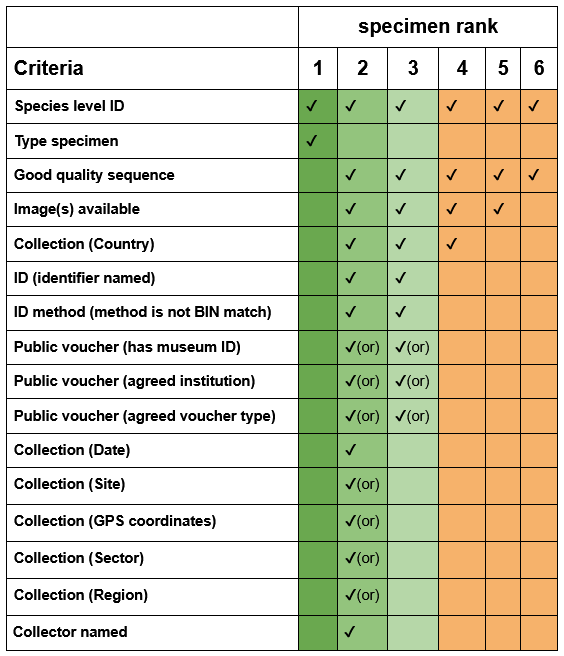
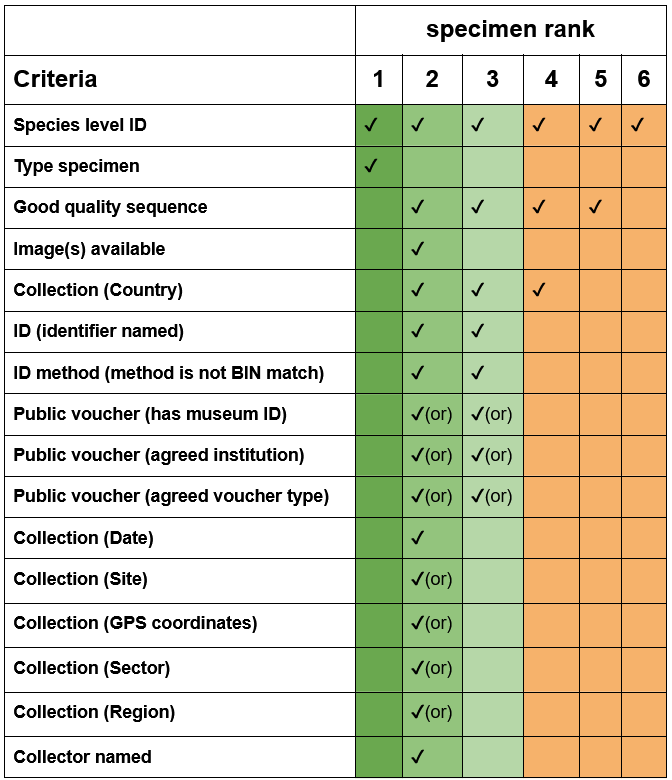
updating image requirement and svg output
- added svg trees as pdfs truncated when long
- updated image impact on rank as most without image
- removed "None" from country stats

Changed region(s): [[0.0, 0.0, 0.9947, 1.0]]

diff --git a/workflow/scripts/phylo_pipeline.py b/workflow/scripts/phylo_pipeline.py
@@ -1241,16 +1241,19 @@ class PhylogeneticPipeline:
         family_dir = self.output_dir / family_name
         family_dir.mkdir(exist_ok=True)
         
-        return {
+        paths = {
             'family_dir': family_dir,
             'fasta_file': family_dir / f"{family_name}.fasta",
             'alignment_file': family_dir / f"{family_name}_aligned.fasta",
             'tree_file': family_dir / f"{family_name}.treefile",
             'pdf_file': family_dir / f"{family_name}_tree.pdf",
+            'svg_file': family_dir / f"{family_name}_tree.svg",
             'curation_pdf_file': family_dir / f"{family_name}_curation_checklist.pdf",
             'metadata_file': family_dir / f"tree_metadata.json",
             'curation_data_file': family_dir / f"curation_data.json"
         }
+        
+        return paths
     def create_fasta_file(self, representatives_df, outgroups_df, fasta_path):
         """
         Create a FASTA file for a family with ingroup and outgroup sequences.
@@ -1321,7 +1324,7 @@ class PhylogeneticPipeline:
     
     def generate_bin_conflict_pdf(self, tree_file, pdf_file, family_name, metadata_file):
         """
-        Generate PDF with BAGS grade visualization and Grade C monophyly analysis.
+        Generate PDF and SVG with BAGS grade visualization and Grade C monophyly analysis.
         
         Args:
             tree_file (Path): Path to tree file
@@ -1508,6 +1511,10 @@ class PhylogeneticPipeline:
             # Custom node styling function
             def layout(node):
                 if node.is_leaf():
+                    # Check if faces have already been added to prevent SVG duplication
+                    if hasattr(node, '_faces_added'):
+                        return
+                    
                     # Add colored circle based on BAGS grade (including monophyly)
                     circle = self.CircleFace(radius=4, color=node.bgcolor, style="sphere")
                     node.add_face(circle, column=0, position="branch-right")
@@ -1550,11 +1557,19 @@ class PhylogeneticPipeline:
                         
                         grade_face = self.TextFace(f" {grade_text}", fsize=8, fgcolor="black")
                         node.add_face(grade_face, column=3, position="branch-right")
+                    
+                    # Mark faces as added to prevent duplication
+                    node._faces_added = True
             
             ts.layout_fn = layout
             
             # Generate PDF
             tree.render(str(pdf_file), tree_style=ts, dpi=300)
+            
+            # Generate static SVG
+            svg_file = pdf_file.with_suffix('.svg')
+            tree.render(str(svg_file), tree_style=ts)
+            
             return True
             
         except Exception as e:
@@ -1628,7 +1643,7 @@ class PhylogeneticPipeline:
         paths = self.create_family_output_dir(family_name)
         
         # Skip if already processed (optional optimization)
-        if (paths['pdf_file'].exists() if self.generate_pdfs else paths['tree_file'].exists()):
+        if (paths['pdf_file'].exists() and paths['svg_file'].exists()) if self.generate_pdfs else paths['tree_file'].exists():
             print(f"   Already processed, skipping {family_name}")
             return None
         
@@ -1716,6 +1731,7 @@ class PhylogeneticPipeline:
                 'num_outgroups': len(outgroups),
                 'tree_file': paths['tree_file'],
                 'pdf_file': paths['pdf_file'] if self.generate_pdfs else None,
+                'svg_file': paths['svg_file'] if self.generate_pdfs else None,
                 'curation_pdf_file': paths['curation_pdf_file'],
                 'curation_data_file': paths['curation_data_file'],
                 'total_family_species': len(curation_data['genera']) if curation_data else 0
@@ -2454,7 +2470,9 @@ def main():
         print(f"Generated {len(results)} family phylogenies")
         if pipeline.generate_pdfs:
             pdf_count = len([r for r in results if r.get('pdf_file')])
+            svg_count = len([r for r in results if r.get('svg_file')])
             print(f"Generated {pdf_count} PDF visualizations")
+            print(f"Generated {svg_count} SVG visualizations")
         print(f"Output directory: {args.output_dir}")
         return 0
     else:

diff --git a/workflow/scripts/bold_stats_report_hpc.py b/workflow/scripts/bold_stats_report_hpc.py
@@ -488,7 +488,7 @@ class HPCBOLDStatsGenerator:
                 query = f"""
                 SELECT COALESCE(`{col}`, 'Unknown') as country_name,
                        COUNT(*) as record_count, COUNT(DISTINCT species) as species_count
-                FROM bold WHERE `{col}` IS NOT NULL AND `{col}` != ''
+                FROM bold WHERE `{col}` IS NOT NULL AND `{col}` != '' AND `{col}` != 'None'
                 GROUP BY `{col}` ORDER BY record_count DESC
                 """
                 
@@ -510,7 +510,7 @@ class HPCBOLDStatsGenerator:
             query = """
             SELECT COALESCE(country, 'Unknown') as country_name,
                    COUNT(*) as record_count, COUNT(DISTINCT species) as species_count
-            FROM bold WHERE country IS NOT NULL AND country != ''
+            FROM bold WHERE country IS NOT NULL AND country != '' AND country != 'None'
             GROUP BY country ORDER BY record_count DESC
             """
             if self.fast_mode:
@@ -963,6 +963,7 @@ Manual intervention = BAGS grade C or E"""
         SELECT COALESCE(b.`country/ocean`, cr.country_iso) as country_name, COUNT(*) as rep_count
         FROM country_representatives cr
         LEFT JOIN bold b ON cr.recordid = b.recordid
+        WHERE COALESCE(b.`country/ocean`, cr.country_iso) != 'None'
         GROUP BY COALESCE(b.`country/ocean`, cr.country_iso)
         ORDER BY rep_count DESC
         LIMIT 15
@@ -973,6 +974,7 @@ Manual intervention = BAGS grade C or E"""
                 SELECT COALESCE(b.`country/ocean`, cr.country_iso) as country_name, COUNT(*) as rep_count
                 FROM (SELECT * FROM country_representatives ORDER BY RANDOM() LIMIT {self.sample_size}) cr
                 LEFT JOIN bold b ON cr.recordid = b.recordid
+                WHERE COALESCE(b.`country/ocean`, cr.country_iso) != 'None'
                 GROUP BY COALESCE(b.`country/ocean`, cr.country_iso)
                 ORDER BY rep_count DESC
                 LIMIT 15
